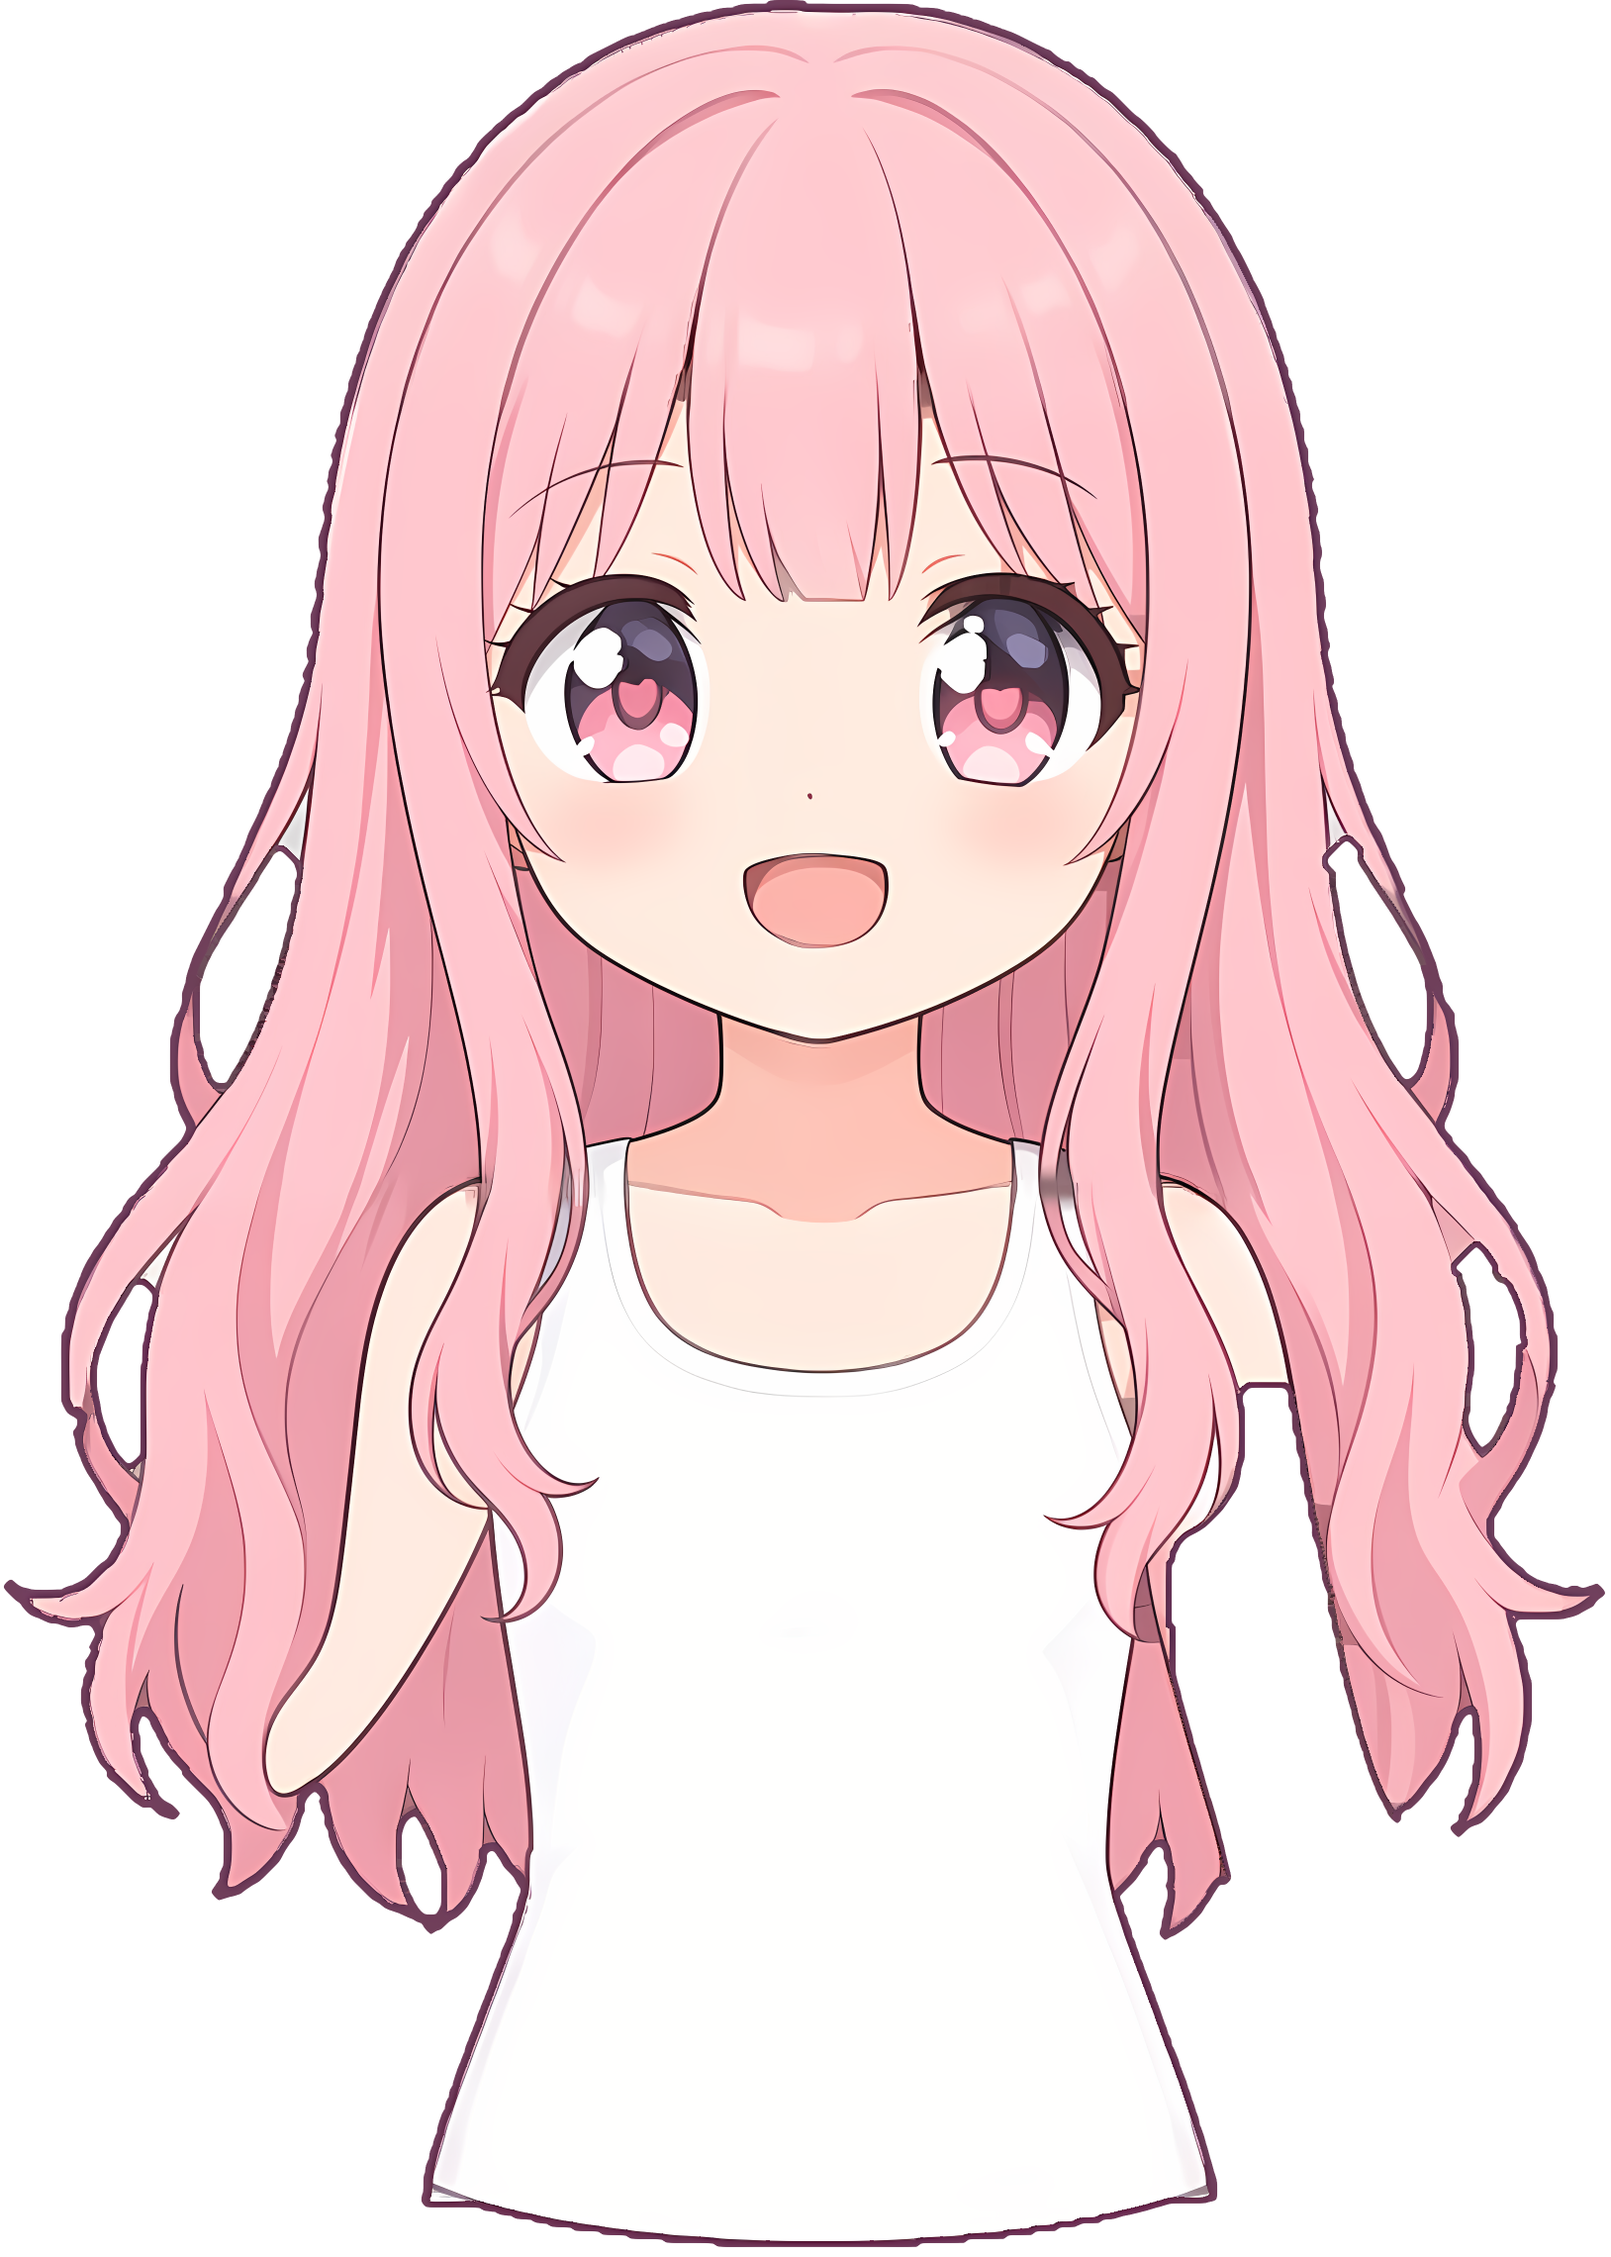
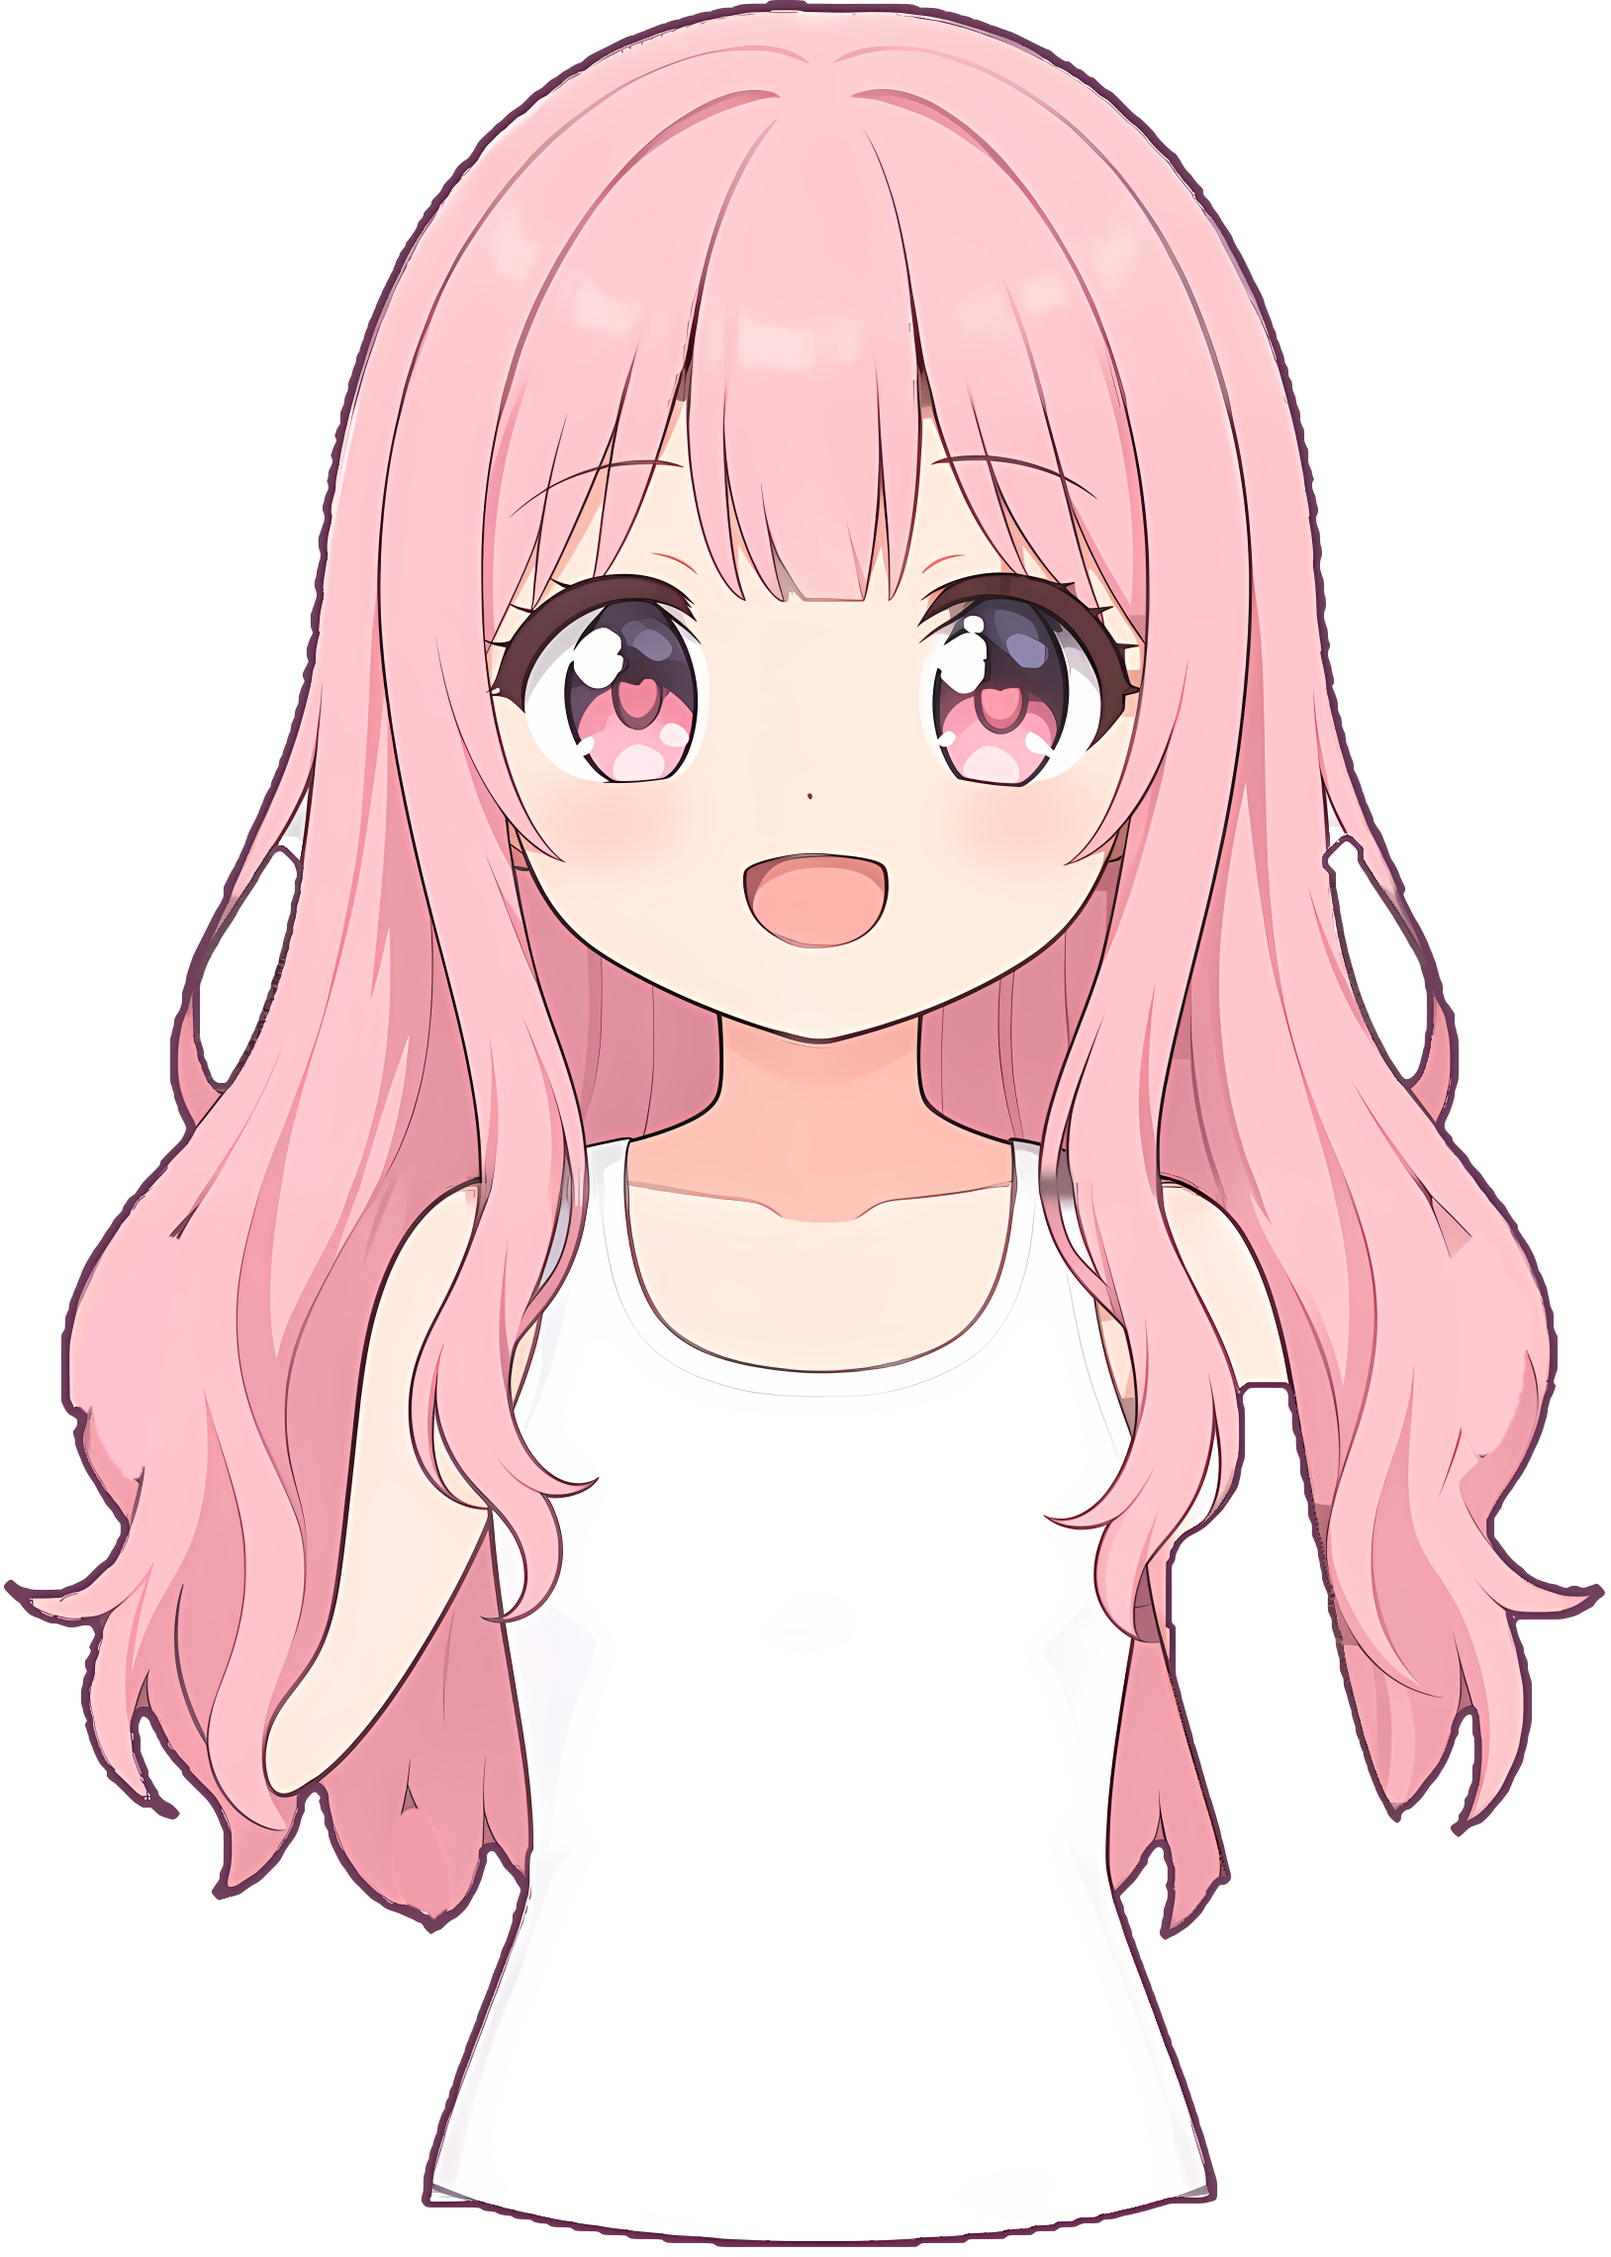
v3: fill hair loop holes with flat cel colour

Changed region(s): [[0.8907, 0.5294, 0.9521, 0.6539], [0.0307, 0.5294, 0.1229, 0.6539], [0.2457, 0.7785, 0.2764, 0.8719]]

diff --git a/tools/v3/fill_hair_holes.py b/tools/v3/fill_hair_holes.py
@@ -1,0 +1,51 @@
+"""뒷머리(hair_back*) 어깨 옆 머리카락 고리 안쪽의 투명 구멍(흰 빈틈)을 메운다.
+가장자리에 닿지 않는 닫힌 투명 구멍 중 어깨 높이(skel y 700~800, 몸통 바깥) 것만 대상.
+구멍+윤곽선을 마스크로 잡아 주변 머리색(평평한 셀 색)으로 채운다. 팔꿈치 아래 물방울 틈도 포함. 사용: python3 fill_hair_holes.py PARTS_DIR
+"""
+import sys, numpy as np, cv2
+from PIL import Image
+d = sys.argv[1]
+for n in ['hair_back', 'hair_back_wave']:
+    p = f'{d}/{n}.png'; a = np.array(Image.open(p).convert('RGBA'))
+    t = (a[..., 3] < 128).astype(np.uint8)
+    k, lab, st, _ = cv2.connectedComponentsWithStats(t, connectivity=4)
+    H, W = t.shape
+    m = np.zeros_like(t); other = np.zeros_like(t)
+    for i in range(1, k):
+        x, y, w, h, ar = st[i]
+        sx, sy = x / 2 + 303, y / 2 + 102
+        if x > 0 and y > 0 and x + w < W and y + h < H and ar > 30 and ((700 <= sy <= 800 and (sx < 400 or sx > 1000)) or (980 <= sy <= 1060 and 480 <= sx <= 540)):
+            m |= (lab == i).astype(np.uint8)
+        elif x > 0 and y > 0 and x + w < W and y + h < H and ar > 30:
+            other |= (lab == i).astype(np.uint8)
+    # 구멍 끝의 가는 흰 틈까지 포함: 밝은 무채색 픽셀을 구멍에 붙인다
+    rgb = a[..., :3].astype(int)
+    whiteish = (rgb.min(-1) > 190) & (rgb.max(-1) - rgb.min(-1) < 40)
+    near = cv2.dilate(m, np.ones((81, 81), np.uint8))
+    m |= (whiteish & (near > 0)).astype(np.uint8)
+    m = cv2.dilate(m, cv2.getStructuringElement(cv2.MORPH_ELLIPSE, (19, 19)))
+    # 바깥 실루엣 윤곽선(외부 투명 영역에서 12px 이내)은 건드리지 않는다
+    outside = np.zeros_like(t)
+    for i in range(1, k):
+        x, y, w, h, ar = st[i]
+        if x == 0 or y == 0 or x + w == W or y + h == H: outside |= (lab == i).astype(np.uint8)
+    m &= (cv2.dilate(outside, cv2.getStructuringElement(cv2.MORPH_ELLIPSE, (25, 25))) == 0).astype(np.uint8)
+    # 셀 채색이므로 평평한 머리색으로 채운다(블러·얼룩 금지). 구멍마다 주변 링의 최빈색(선 제외)
+    kk, ml = cv2.connectedComponents(m)
+    full = np.zeros(m.shape, np.float32); fill = np.zeros(a.shape[:2] + (3,), np.float32)
+    for j in range(1, kk):
+        mj = (ml == j).astype(np.uint8)
+        ring = (cv2.dilate(mj, np.ones((15, 15), np.uint8)) > 0) & (mj == 0) & (a[..., 3] > 250) & (rgb.sum(-1) > 450)
+        q = (rgb[ring] // 6) * 6
+        vals, cnt = np.unique(q, axis=0, return_counts=True)
+        fill[mj > 0] = vals[cnt.argmax()] + 3
+    soft = cv2.GaussianBlur(m.astype(np.float32), (0, 0), 0.8)
+    fillb = cv2.dilate(fill, np.ones((5, 5), np.uint8))
+    for c in range(3):
+        a[..., c] = (a[..., c] * (1 - soft) + fillb[..., c] * soft).astype(np.uint8)
+    a[m > 0, 3] = 255
+    # 남겨 두는 머리카락 사이 틈: 끝부분의 회색·흰 조각은 투명으로(틈 자체는 자연스러운 머리결)
+    rgb2 = a[..., :3].astype(int)
+    grey = (rgb2.min(-1) > 150) & (rgb2.max(-1) - rgb2.min(-1) < 30) & (a[..., 3] > 0)
+    a[grey & (cv2.dilate(other, np.ones((31, 31), np.uint8)) > 0), 3] = 0
+    Image.fromarray(a).save(p); print('filled', n, int(m.sum()))
